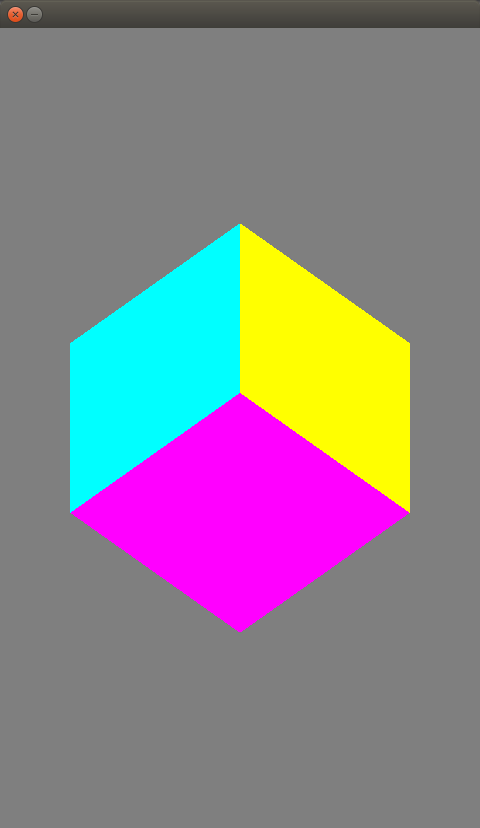
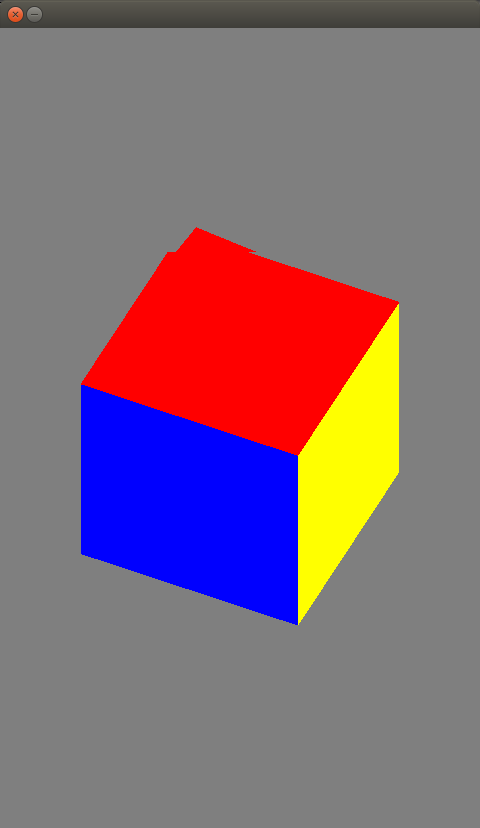
Add glCullFace and rotate

Changed region(s): [[0.125, 0.2717, 0.875, 0.785]]

diff --git a/3_sdl_cube/cube.c b/3_sdl_cube/cube.c
@@ -285,13 +285,17 @@ int view_set_ortho(float result[16], const float left, const float right,
 
 void drawScene(appdata_s* ad)
 {
+	int static rot = 0.0f;
+	rot+=5.0f;
+	if(rot>=360)
+		rot = 0.0f;
         int w, h;
         SDL_GetWindowSize(ad->window, &w, &h);
         glViewport(0, 0, w, h);
         glClearColor(0.5f, 0.5f, 0.5f, 1.0f);
         glClear(GL_COLOR_BUFFER_BIT | GL_DEPTH_BUFFER_BIT);
         init_matrix(ad->model);
-        rotate_xyz(ad->model, ad->anglePoint.x, ad->anglePoint.y, ad->window_rotation);
+        rotate_xyz(ad->model, ad->anglePoint.x, rot, ad->window_rotation);
 
         multiply_matrix(ad->mvp, ad->view, ad->model);
         glUseProgram(ad->program);
@@ -336,6 +340,9 @@ int main()
         init_shaders(&ad);
         init_matrix(ad.view);
         generateAndBindBuffer(&(ad.vbo));
+
+	glCullFace(GL_BACK);
+	glEnable(GL_CULL_FACE);
 
         float aspect = (width > height ? (float)width/height : (float)height/width);
         if (width > height)
